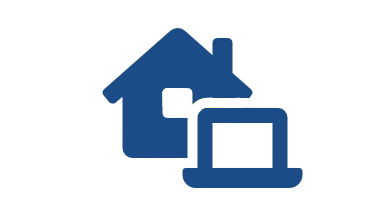
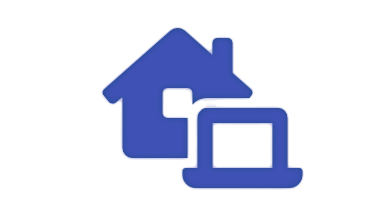
adjusted gradient on articles, added new img for info

Changed region(s): [[0.2661, 0.1091, 0.828, 0.8727]]

diff --git a/frontend/src/styles/news.scss b/frontend/src/styles/news.scss
@@ -55,7 +55,7 @@
         bottom: 100%;
         left: 0;
         right: 0;
-        background-image: linear-gradient( rgb(78, 98, 212),rgb(78, 98, 212), rgba(255,0,0,0));
+        background-image: linear-gradient( #3f51b5 ,#3f51b5d7, #3f51b5c2 );
         overflow: hidden;
         width: 100%;
         height:0;
@@ -64,9 +64,12 @@
 
       .text {
         color: white;
-        font-size: 20px;
+        font-size: 24px;
+        font-weight: 500;
+        font-family: "Roboto", "Helvetica", "Arial", sans-serif;
+        font-style: italic;
         position: absolute;
-        top: 85%;
+        top: 89.5%;
         left: 50%;
         -webkit-transform: translate(-50%, -50%);
         -ms-transform: translate(-50%, -50%);
@@ -80,7 +83,7 @@
     }
 
     .Article:hover .overlay {
-      bottom: 76%;
+      bottom: 80%;
       height: 100%;
     }
   }

diff --git a/frontend/src/hooks/useTweetState.ts b/frontend/src/hooks/useTweetState.ts
@@ -12,7 +12,7 @@ export default (initTweets: any[]): [any[], (tweet: any | any[]) => void] => {
       result.forEach(t => filteredResult[t.id] = t)
       return Object.keys(filteredResult).sort((aID, bID) => {
         if (new Date(filteredResult[aID].created_at) > new Date(filteredResult[bID].created_at)) {
-          return -1
+          return -1 
         } return 1
       }).map(id => filteredResult[id])
     });
